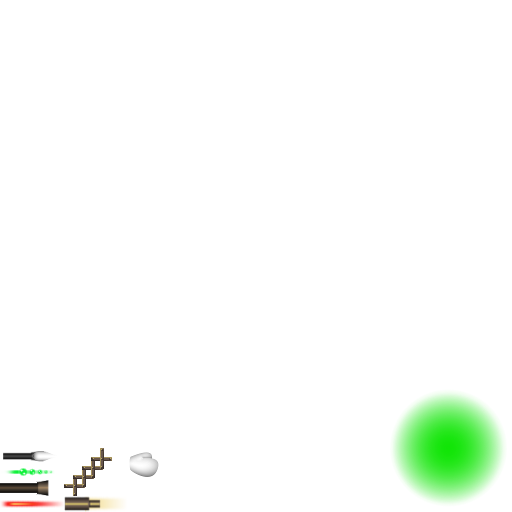
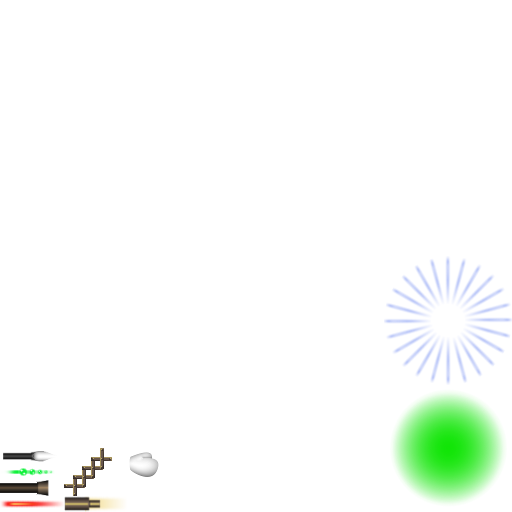
improved optic of blast special, improved interface of shockWave and particles influenced by it
git-svn-id: svn://svn.code.sf.net/p/mars-game/code@62 249382d3-5f29-4b26-bf2c-91a77bf04246

Changed region(s): [[0.75, 0.5, 1.0, 0.75]]

diff --git a/src/Menu/NewGameMenu.cpp b/src/Menu/NewGameMenu.cpp
@@ -65,10 +65,10 @@ UiWindow* NewGameMenu::get() {
         instance_->addWidget(new Slider(locales::getLocale(locales::PowerUpRate), &settings::C_powerUpRate, 0, 100, Vector2f(20,255), 540, 270, true));
 
         TabList* tabList        = new TabList(Vector2f(10,55), 560, 220);
-        Tab* tabSpaceBall       = new Tab(new sf::String("SpaceBall"), 70,  &tSB_);
-        Tab* tabDeathMatch      = new Tab(new sf::String("DeathMatch"), 80, &tDM_);
-        Tab* tabTeamDeathMatch  = new Tab(new sf::String("Team-DeathMatch"), 110, &tTDM_);
-        Tab* tabCannonKeep      = new Tab(new sf::String("CannonKeep"), 80, &tCK_);
+        Tab* tabSpaceBall       = new Tab(new sf::String("SpaceBall"), 90,  &tSB_);
+        Tab* tabDeathMatch      = new Tab(new sf::String("DeathMatch"), 100, &tDM_);
+        Tab* tabTeamDeathMatch  = new Tab(new sf::String("Team-DeathMatch"), 130, &tTDM_);
+        Tab* tabCannonKeep      = new Tab(new sf::String("CannonKeep"), 100, &tCK_);
 
         tabSpaceBall->addWidget(new Label(locales::getLocale(locales::LeftTeam), TEXT_ALIGN_LEFT, Vector2f(10, 40)));
         tabSpaceBall->addWidget(new Label(locales::getLocale(locales::RightTeam), TEXT_ALIGN_LEFT, Vector2f(290, 40)));
@@ -84,14 +84,14 @@ UiWindow* NewGameMenu::get() {
             tabSpaceBall->addWidget(player2Group);
         tabSpaceBall->addWidget(new Slider(locales::getLocale(locales::Pointlimit), &settings::C_pointLimit, 1, 20, Vector2f(10,150), 540, 270, true));
         tabSpaceBall->addWidget(new Button(locales::getLocale(locales::Start), &kStartSB_, Vector2f(485,235), 70, 20));
-        tabSpaceBall->addWidget(new Button(locales::getLocale(locales::Info), &kInfoSB_, Vector2f(10,235), 70, 20));
+        tabSpaceBall->addWidget(new Button(locales::getLocale(locales::Info), &kInfoSB_, Vector2f(10,235), 90, 20));
 
         tabDeathMatch->addWidget(new Slider(locales::getLocale(locales::Bots), &settings::C_botsDeath, 0, 50, Vector2f(10,110), 540, 270, true));
         tabDeathMatch->addWidget(new Checkbox(&settings::C_playerIName, &playerI_, Vector2f(10,60), 100));
         tabDeathMatch->addWidget(new Checkbox(&settings::C_playerIIName, &playerII_, Vector2f(290,60), 100));
         tabDeathMatch->addWidget(new Slider(locales::getLocale(locales::Fraglimit), &settings::C_pointLimitDM, 1, 50, Vector2f(10,150), 540, 270, true));
         tabDeathMatch->addWidget(new Button(locales::getLocale(locales::Start), &kStartDM_, Vector2f(485, 235), 70, 20));
-        tabDeathMatch->addWidget(new Button(locales::getLocale(locales::Info), &kInfoDM_, Vector2f(10,235), 70, 20));
+        tabDeathMatch->addWidget(new Button(locales::getLocale(locales::Info), &kInfoDM_, Vector2f(10,235), 90, 20));
 
         tabTeamDeathMatch->addWidget(new Label(locales::getLocale(locales::LeftTeam), TEXT_ALIGN_LEFT, Vector2f(10, 40)));
         tabTeamDeathMatch->addWidget(new Label(locales::getLocale(locales::RightTeam), TEXT_ALIGN_LEFT, Vector2f(290, 40)));
@@ -107,7 +107,7 @@ UiWindow* NewGameMenu::get() {
             tabTeamDeathMatch->addWidget(player2Group2);
         tabTeamDeathMatch->addWidget(new Slider(locales::getLocale(locales::Fraglimit), &settings::C_pointLimitTDM, 1, 100, Vector2f(10,150), 540, 270, true));
         tabTeamDeathMatch->addWidget(new Button(locales::getLocale(locales::Start), &kStartTDM_, Vector2f(485, 235), 70, 20));
-        tabTeamDeathMatch->addWidget(new Button(locales::getLocale(locales::Info), &kInfoTDM_, Vector2f(10,235), 70, 20));
+        tabTeamDeathMatch->addWidget(new Button(locales::getLocale(locales::Info), &kInfoTDM_, Vector2f(10,235), 90, 20));
 
         tabCannonKeep->addWidget(new Label(locales::getLocale(locales::LeftTeam), TEXT_ALIGN_LEFT, Vector2f(10, 40)));
         tabCannonKeep->addWidget(new Label(locales::getLocale(locales::RightTeam), TEXT_ALIGN_LEFT, Vector2f(290, 40)));
@@ -123,7 +123,7 @@ UiWindow* NewGameMenu::get() {
             tabCannonKeep->addWidget(player2Group3);
         tabCannonKeep->addWidget(new Slider(locales::getLocale(locales::Pointlimit), &settings::C_pointLimit, 1, 20, Vector2f(10,150), 540, 270, true));
         tabCannonKeep->addWidget(new Button(locales::getLocale(locales::Start), &kStartCK_, Vector2f(485, 235), 70, 20));
-        tabCannonKeep->addWidget(new Button(locales::getLocale(locales::Info), &kInfoCK_, Vector2f(10,235), 70, 20));
+        tabCannonKeep->addWidget(new Button(locales::getLocale(locales::Info), &kInfoCK_, Vector2f(10,235), 90, 20));
 
         tabList->addTab(tabSpaceBall);
         tabList->addTab(tabDeathMatch);

diff --git a/src/Specials/Blast.cpp b/src/Specials/Blast.cpp
@@ -26,35 +26,38 @@ this program.  If not, see <http://www.gnu.org/licenses/>. */
 # include <SFML/Graphics.hpp>
 
 void Blast::draw() const {
-    /*if (timer_ > 0.f) {
+    if (timer_ > 0.f) {
         float alpha(0.f);
         if(timer_ > 0.4f)
             alpha = std::pow(0.5f-timer_,2)*100.f;
         else
             alpha = -2.5f*(0.5f-timer_)+1.25f;
 
+        float scale(1.f-timer_);
+
         glBlendFunc(GL_SRC_ALPHA, GL_ONE_MINUS_SRC_ALPHA);
         glColor4f(1.0f, 1.0f, 1.0f, alpha);
 
         const int posX = 3;
-        const int posY = 3;
+        const int posY = 2;
 
         glBegin(GL_QUADS);
-            glTexCoord2f( posX*0.25f,    posY*0.25f);    glVertex2f(-radius_,-radius_);
-            glTexCoord2f( posX*0.25f,   (posY+1)*0.25f); glVertex2f(-radius_, radius_);
-            glTexCoord2f((posX+1)*0.25f,(posY+1)*0.25f); glVertex2f( radius_, radius_);
-            glTexCoord2f((posX+1)*0.25f, posY*0.25f);    glVertex2f( radius_,-radius_);
+            glTexCoord2f( posX*0.25f,    posY*0.25f);    glVertex2f(-radius_*scale,-radius_*scale);
+            glTexCoord2f( posX*0.25f,   (posY+1)*0.25f); glVertex2f(-radius_*scale, radius_*scale);
+            glTexCoord2f((posX+1)*0.25f,(posY+1)*0.25f); glVertex2f( radius_*scale, radius_*scale);
+            glTexCoord2f((posX+1)*0.25f, posY*0.25f);    glVertex2f( radius_*scale,-radius_*scale);
         glEnd();
 
         timer_ -= timer::frameTime();
-    }*/
+    }
 }
 
 void Blast::activate() const {
     if (parent_->fragStars_ > 0) {
-        physics::causeShockWave(parent_, parent_->fragStars_*200.f, parent_->fragStars_*150.f);
-        timer_ = 0.5f;
+        radius_ = parent_->fragStars_*100.f;
         parent_->fragStars_ = 0;
+        physics::causeShockWave(parent_->owner_, parent_->location_, radius_*2.f, radius_*1.5f);
+        timer_ = 0.5f;
     }
 }
 

diff --git a/src/SpaceObjects/Ship.cpp b/src/SpaceObjects/Ship.cpp
@@ -59,7 +59,7 @@ Ship::Ship(Vector2f const& location, float rotation, Player* owner):
                fuel_(100.f),
                maxFuel_(fuel_),
                collectedPowerUps_(items::COUNT, NULL),
-               fragStars_(0),
+               fragStars_(5),
                rememberedLife_(100.f),
                damageCheckTimer_(0.f) {
 
@@ -356,8 +356,8 @@ void Ship::onCollision(SpaceObject* with, Vector2f const& location,
     }
 }
 
-void Ship::onShockWave(SpaceObject* source, float intensity) {
-    setDamageSource(source->damageSource());
+void Ship::onShockWave(Player* damageSource, float intensity) {
+    setDamageSource(damageSource);
     if (!collectedPowerUps_[items::puShield]) {
         life_ -= intensity*(20.f + settings::C_iDumb);
         if (damageCheckTimer_ <= 0.f)
@@ -404,7 +404,7 @@ void Ship::explode() {
     particles::spawnMultiple(20, particles::pExplode, location_);
     particles::spawnMultiple(5, particles::pBurningFragment, location_);
     particles::spawnMultiple(1, particles::pMiniFlame, location_);
-    physics::  causeShockWave(this, 400.f, 500.f);
+    physics::  causeShockWave(damageSource(), location_, 400.f, 500.f);
     particles::spawn(particles::pShockWave, location_);
     physics::  removeMobileObject(this);
     timer::    onShipExplode();

diff --git a/src/SpaceObjects/physics.cpp b/src/SpaceObjects/physics.cpp
@@ -153,19 +153,19 @@ namespace physics {
         return totalAcceleration;
     }
 
-    void causeShockWave(SpaceObject* source, float strength, float radius) {
+    void causeShockWave(Player* damageSource, Vector2f const& location, float strength, float radius) {
         for (std::vector<MobileSpaceObject*>::iterator it = mobileObjects_.begin(); it != mobileObjects_.end(); ++it) {
-            Vector2f direction((*it)->location_ - source->location());
+            Vector2f direction((*it)->location_ - location);
             float distance = direction.length();
             if (distance < radius && direction != Vector2f()) {
                 float intensity = ((radius-distance)/radius)*strength;
                 direction /= distance;
                 direction *= intensity;
                 (*it)->velocity_ += direction;
-                (*it)->onShockWave(source, intensity/1000.f);
+                (*it)->onShockWave(damageSource, intensity/1000.f);
             }
         }
-        particles::shockWave(source, strength, radius);
+        particles::shockWave(location, strength, radius);
     }
 
     void addMobileObject (MobileSpaceObject* object) {

diff --git a/include/SpaceObjects/SpaceObject.hpp b/include/SpaceObjects/SpaceObject.hpp
@@ -40,7 +40,7 @@ class SpaceObject {
         virtual void onCollision(SpaceObject* source, Vector2f const& location,
                                  Vector2f const& direction, Vector2f const& velocity) {};
 
-        virtual void onShockWave(SpaceObject* source, float intensity) {};
+        virtual void onShockWave(Player* damageSource, float intensity) {};
 
         virtual void setDamageSource(Player* evilOne) {damageSource_ = evilOne;}
         Player*      damageSource() const             {return damageSource_;}
@@ -51,7 +51,7 @@ class SpaceObject {
 
         friend Vector2f          physics::attract(MobileSpaceObject*);
         friend void              physics::collide(MobileSpaceObject*, int);
-        friend void              physics::causeShockWave(SpaceObject* evilOne, float strength, float radius);
+        friend void              physics::causeShockWave(Player* damageSource, Vector2f const& location, float strength, float radius);
 
     protected:
         Vector2f location_;

diff --git a/src/Particles/AmmoFlubba.cpp b/src/Particles/AmmoFlubba.cpp
@@ -71,14 +71,14 @@ void AmmoFlubba::draw() const {
 
 void AmmoFlubba::onCollision(SpaceObject* with, Vector2f const& location,
                         Vector2f const& direction, Vector2f const& velocity) {
-    physics::causeShockWave(this, 150.f, 200.f);
+    physics::causeShockWave(damageSource(), location_, 150.f, 200.f);
     sound::playSound(sound::BlubCollide, location_);
     killMe();
 }
 
-void AmmoFlubba::shockWave(SpaceObject* source, float strength, float radius) {
+void AmmoFlubba::shockWave(Vector2f const& location, float strength, float radius) {
     for (std::list<AmmoFlubba*>::iterator it = activeParticles_.begin(); it != activeParticles_.end(); ++it) {
-        Vector2f direction((*it)->location_ - source->location());
+        Vector2f direction((*it)->location_ - location);
         float distance = direction.length();
         if (distance < radius && direction != Vector2f()) {
             float intensity = radius-distance;

diff --git a/src/Particles/particles.cpp b/src/Particles/particles.cpp
@@ -217,11 +217,12 @@ namespace particles {
             spawn(type, location, direction, velocity, color, damageSource);
     }
 
-    void shockWave(SpaceObject* source, float strength, float radius) {
-        Smoke::         shockWave(source, strength, radius);
-        Dust::          shockWave(source, strength, radius);
-        AmmoFlubba::    shockWave(source, strength, radius);
-        MiniFlameSmoke::shockWave(source, strength, radius);
+    void shockWave(Vector2f const& location, float strength, float radius) {
+        Smoke::         shockWave(location, strength, radius);
+        Dust::          shockWave(location, strength, radius);
+        AmmoFlubba::    shockWave(location, strength, radius);
+        MiniAmmoFlubba::    shockWave(location, strength, radius);
+        MiniFlameSmoke::shockWave(location, strength, radius);
     }
 
     int count() {

diff --git a/src/Particles/MiniFlameSmoke.cpp b/src/Particles/MiniFlameSmoke.cpp
@@ -52,9 +52,9 @@ void MiniFlameSmoke::draw() const {
     glTexCoord2f((posX+1)*0.125f, posY*0.125f);     glVertex2f(location_.x_+radius_, location_.y_-radius_);
 }
 
-void MiniFlameSmoke::shockWave(SpaceObject* source, float strength, float radius) {
+void MiniFlameSmoke::shockWave(Vector2f const& location, float strength, float radius) {
     for (std::list<MiniFlameSmoke*>::iterator it = activeParticles_.begin(); it != activeParticles_.end(); ++it) {
-        Vector2f direction((*it)->location_ - source->location());
+        Vector2f direction((*it)->location_ - location);
         float distance = direction.length();
         if (distance < radius && direction != Vector2f()) {
             float intensity = radius-distance;

diff --git a/src/Particles/Smoke.cpp b/src/Particles/Smoke.cpp
@@ -52,9 +52,9 @@ void Smoke::draw() const {
     glTexCoord2f((posX+1)*0.125f, posY*0.125f);     glVertex2f(location_.x_+radius_, location_.y_-radius_);
 }
 
-void Smoke::shockWave(SpaceObject* source, float strength, float radius) {
+void Smoke::shockWave(Vector2f const& location, float strength, float radius) {
     for (std::list<Smoke*>::iterator it = activeParticles_.begin(); it != activeParticles_.end(); ++it) {
-        Vector2f direction((*it)->location_ - source->location());
+        Vector2f direction((*it)->location_ - location);
         float distance = direction.length();
         if (distance < radius && direction != Vector2f()) {
             float intensity = radius-distance;

diff --git a/src/Particles/CannonBall.cpp b/src/Particles/CannonBall.cpp
@@ -61,7 +61,7 @@ void CannonBall::update() {
         if ((location_ - (*it)->location()).lengthSquare() < std::pow(radius_ + (*it)->radius(), 2)) {
             (*it)->onCollision(this, Vector2f(), Vector2f(), Vector2f());
             sound::playSound(sound::BallExplode, location_, 100.f);
-            physics::causeShockWave(this, 100.f, 300.f);
+            physics::causeShockWave(damageSource(), location_, 100.f, 300.f);
             particles::spawnMultiple(5 , particles::pFragment, location_, location_, location_, Color3f(0.3f, 0.3f, 0.3f));
             particles::spawnMultiple(70, particles::pDust, location_);
             particles::spawnMultiple(20, particles::pExplode, location_);

diff --git a/src/Particles/Dust.cpp b/src/Particles/Dust.cpp
@@ -54,9 +54,9 @@ void Dust::draw() const {
     glTexCoord2f((posX+1)*0.125f, posY*0.125f);     glVertex2f(location_.x_+radius_, location_.y_-radius_);
 }
 
-void Dust::shockWave(SpaceObject* source, float strength, float radius) {
+void Dust::shockWave(Vector2f const& location, float strength, float radius) {
     for (std::list<Dust*>::iterator it = activeParticles_.begin(); it != activeParticles_.end(); ++it) {
-        Vector2f direction((*it)->location_ - source->location());
+        Vector2f direction((*it)->location_ - location);
         float distance = direction.length();
         if (distance < radius && direction != Vector2f()) {
             float intensity = radius-distance;

diff --git a/src/Particles/MiniAmmoFlubba.cpp b/src/Particles/MiniAmmoFlubba.cpp
@@ -69,9 +69,9 @@ void MiniAmmoFlubba::onCollision(SpaceObject* with, Vector2f const& location,
     killMe();
 }
 
-void MiniAmmoFlubba::shockWave(SpaceObject* source, float strength, float radius) {
+void MiniAmmoFlubba::shockWave(Vector2f const& location, float strength, float radius) {
     for (std::list<MiniAmmoFlubba*>::iterator it = activeParticles_.begin(); it != activeParticles_.end(); ++it) {
-        Vector2f direction((*it)->location_ - source->location());
+        Vector2f direction((*it)->location_ - location);
         float distance = direction.length();
         if (distance < radius && direction != Vector2f()) {
             float intensity = radius-distance;
